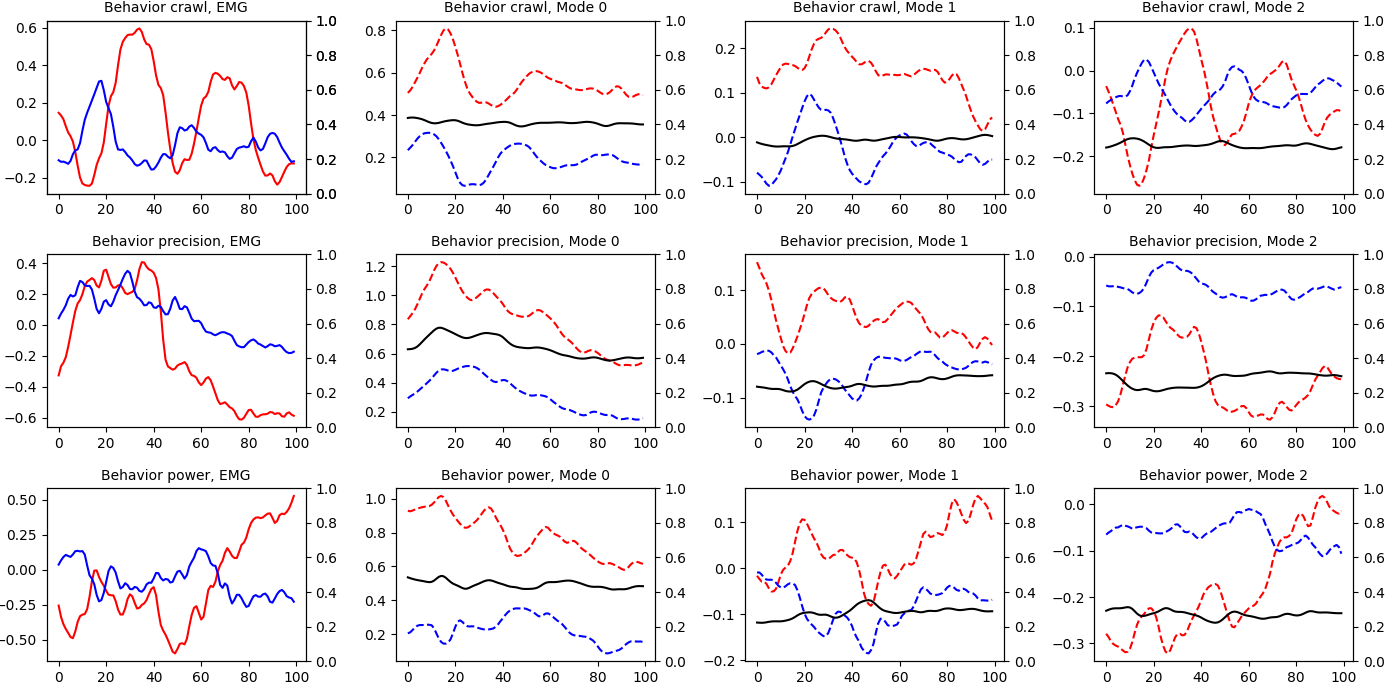
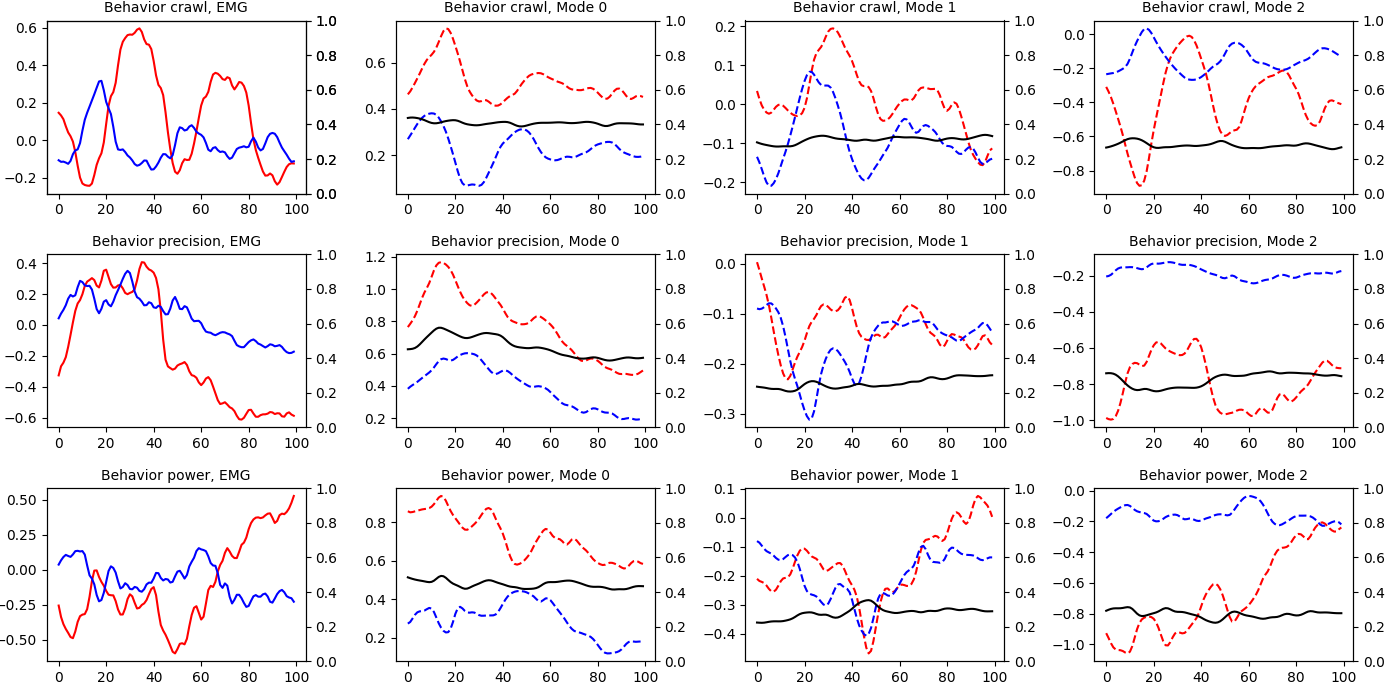
set1 label experiments cont, decoder output plots cont, full dataset training

diff --git a/eval/evaluate.py b/eval/evaluate.py
@@ -88,7 +88,8 @@ def check_clustering(model_path, num_to_print, dataset, config, plot_type, model
     
     # Access train dataset
     train = dataset.train_dataset
-    train_emg_1 = torch.stack([val[1][0] for val in train]).tolist()
+    train_emg = torch.stack([val[1] for val in train])
+    train_emg_1 = train_emg[:,0].tolist()
     train_behavioral_labels = [val[2] for val in train]
 
     # Convert ground truth behavioral labels into numbers
@@ -141,11 +142,26 @@ def check_clustering(model_path, num_to_print, dataset, config, plot_type, model
 
     # Graph of EMG with behavioral label and learned cluster labels overlaid with color
     if plot_type == "majority":
+
+        # Plot EMG info on top of clustering info
+        plot_pcs = True
+        pca = PCA(n_components=2)
+        pca_result = pca.fit_transform(train_emg)
+        pca1 = pca_result[:,0]
+        pca2 = pca_result[:,1]
+
         ids_array = np.array(ids)
         cluster_ids_array = np.array(cluster_ids)
         num_timestamps = len(ids_array)
         fig, (ax1, ax2) = plt.subplots(2, figsize=(10,3))
-        ax1.plot(timestamps, train_emg_1, color="black")
+
+        # Plot EMG info 
+        if plot_pcs: 
+            ax1.plot(timestamps, pca1, color="black")
+            ax1.plot(timestamps, pca2, color="white")
+        else:
+            ax1.plot(timestamps, train_emg_1, color="black")
+        
         cmap = ListedColormap(["yellow","green","blue"], name='from_list', N=None)
         cmap_preds = ListedColormap(cmap_colors[:config.d], name='from_list', N=None)
         ax1.imshow(np.expand_dims(ids_array, 0),
@@ -153,7 +169,14 @@ def check_clustering(model_path, num_to_print, dataset, config, plot_type, model
                 alpha=1.0,
                 extent=[0, num_timestamps, -200, 200])
         ax1.title.set_text("Behavioral Labels")
-        ax2.plot(timestamps, train_emg_1, color="black")
+
+        # Plot EMG info 
+        if plot_pcs: 
+            ax2.plot(timestamps, pca1, color="black")
+            ax2.plot(timestamps, pca2, color="white")
+        else:
+            ax2.plot(timestamps, train_emg_1, color="black")
+
         ax2.imshow(np.expand_dims(cluster_ids_array, 0),
                 cmap=cmap_preds,
                 alpha=1.0,
@@ -736,7 +759,7 @@ def run_kmeans_M1(dataset, config):
 
 def sep_decoders_R2(model_path, dataset, config, plot_type, model_id, verbose):
 
-    save_fig = False
+    save_fig = True
 
     if not verbose:
         return
@@ -932,8 +955,8 @@ def sep_decoders_R2(model_path, dataset, config, plot_type, model_id, verbose):
                     if equal_scale:
                         # ax[ax_pos][i].set_ylim([-250,550]) # Scale y-axis for equal comparison
                         # ax[ax_pos][i].set_ylim([-60,70]) # Scale y-axis for equal comparison
-                        # ax[ax_pos][i].set_ylim([-0.7,1.3]) # Scale y-axis for equal comparison
-                        ax[ax_pos][i].set_ylim([-1.25,2.25]) # Scale y-axis for equal comparison
+                        ax[ax_pos][i].set_ylim([-3.5,2.2]) # Scale y-axis for equal comparison
+                        # ax[ax_pos][i].set_ylim([-1.25,1.5]) # Scale y-axis for equal comparison
 
             ax_pos += 1
         
@@ -963,7 +986,7 @@ if __name__ == "__main__":
     run_kmeans(dataset=dataset, config=config, verbose=False)
 
     # Evaluate model clustering 
-    model_ids = [254]
+    model_ids = [272]
     for model_id in model_ids:
         # model_path = "checkpoints_intervals/%s.ckpt" % model_id
         model_path = "checkpoints/checkpoint%s_epoch=499.ckpt" % model_id
@@ -982,9 +1005,11 @@ if __name__ == "__main__":
                         verbose=False)
 
     # Evaluate model decoding
-    # model_id = 120
+    model_id = 120
     # model_id = 254
-    model_id = 260
+    # model_id = 259
+    # model_id = 259
+    # model_id = 273
     model_path = "checkpoints/checkpoint%s_epoch=499.ckpt" % model_id
     # plot_type = "baseline"
     plot_type = "behavior_average"

diff --git a/data/data.py b/data/data.py
@@ -154,6 +154,9 @@ class Cage_Dataset(pl.LightningDataModule):
                 self.N = m1.size()[2]
                 self.M = emg.size()[2]
     
+        # Load data with full dataset without labels
+        elif self.label_type == "none":
+            self.format_none_data()
 
     def format_set1_data(self, labels_to_use):
 
@@ -219,6 +222,60 @@ class Cage_Dataset(pl.LightningDataModule):
                 elif split == "val":
                     X_val = new_X
                     y_val = new_y
+
+        # Format back into time stamps
+        X_train = torch.Tensor(np.concatenate(X_train))
+        X_val = torch.Tensor(np.concatenate(X_val))
+        y_train_emg = torch.Tensor(np.concatenate([y[0] for y in y_train]))
+        y_train_behavioral = np.concatenate([y[1] for y in y_train])
+        y_val_emg = torch.Tensor(np.concatenate([y[0] for y in y_val]))
+        y_val_behavioral = np.concatenate([y[1] for y in y_val])
+        self.train_dataset = [(X_train[i], y_train_emg[i], y_train_behavioral[i]) for i in range(len(X_train))]
+        self.val_dataset = [(X_val[i], y_val_emg[i], y_val_behavioral[i]) for i in range(len(X_val))]
+        self.N = m1.shape[1]
+        self.M = emg.shape[1]
+
+    def format_none_data(self):
+
+        np.set_printoptions(suppress=True)
+
+        def find_start_end(N, timeframe):
+            segment_range = np.where((timeframe>=my_cage_data.behave_tags['start_time'][N]) & (timeframe<=my_cage_data.behave_tags['end_time'][N]))[0]
+            start_idx = segment_range[0]
+            end_idx = segment_range[-1]
+            return start_idx, end_idx
+
+        # Load in raw dataset files
+        curr_dir = os.getcwd()
+        data_path = "%s/data/pickle_files/" % curr_dir
+        file_name = 'Pop_20210709_Cage_004.pkl'
+        with open(data_path+file_name, 'rb') as fp:
+            my_cage_data = pickle.load(fp)
+        m1 = np.transpose(my_cage_data.binned['spikes'])
+        emg = np.transpose(my_cage_data.binned['filtered_EMG'])
+        timeframe = my_cage_data.binned['timeframe']
+
+        # Format labels for labeled and unlabeled timestamps
+        behavior = ["none"] * m1.shape[0]
+        for N in range(len(my_cage_data.behave_tags['tag'])):
+            curr_behavior = my_cage_data.behave_tags['tag'][N]
+            if curr_behavior == "grooming":
+                    continue
+            start_idx, end_idx = find_start_end(N, timeframe)
+            behavior[start_idx:end_idx+1] = [curr_behavior] * (end_idx+1-start_idx)
+
+        # Format into trials of length 100
+        m1_trials = []
+        emg_trials = []
+        behavior_trials = []
+        for i in range(0, m1.shape[0], 100):
+            m1_trials.append(m1[i:i+100])
+            emg_trials.append(emg[i:i+100])
+            behavior_trials.append(behavior[i:i+100])
+
+        # Create train/val splits
+        labels_trials = [[emg_trials[i], behavior_trials[i]] for i in range(len(emg_trials))]
+        X_train, X_val, y_train, y_val = train_test_split(m1_trials, labels_trials, test_size=0.2, random_state=42)
 
         # Format back into time stamps
         X_train = torch.Tensor(np.concatenate(X_train))
